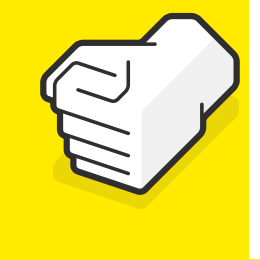
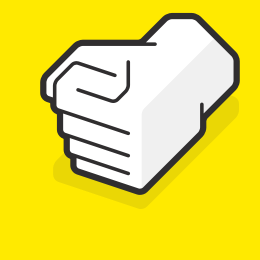
added images with hover effect

Changed region(s): [[0.9538, 0.0, 1.0, 1.0]]

diff --git a/index.html b/index.html
@@ -11,9 +11,18 @@
 <body>
     <h1 class="title">ROCK PAPER SCISSORS</h1>
     <div class="container">
-        <button id="rockbtn">Rock</button>
-        <button id="paperbtn">Paper</button>
-        <button id="scissorbtn">Scissor</button>
+        <div class="rock">
+            <img src="images/rock.png">
+            <button id="rockbtn">Rock</button>
+        </div>
+        <div class="paper">
+            <img src="images/paper.png">
+            <button id="paperbtn">Paper</button>
+        </div>
+        <div class="scissor">
+            <img src="images/scissor.png">
+            <button id="scissorbtn">Scissor</button>
+        </div>
     </div>
     <div class="result">
         Here is the result

diff --git a/style.css b/style.css
@@ -1,5 +1,5 @@
 body {
-    background-color: yellow;
+    background-color: rgb(255, 234, 0);
     font-family: 'Lato', sans-serif;
     text-align: center;
 
@@ -16,9 +16,27 @@ body {
     gap: 25px;
 }
 
+img {
+    transition: transform 250ms;
+}
+
+img:hover {
+    transform: translateY(-10px);
+}
+
+.rock,
+.paper,
+.scissor {
+    max-width: 260px;
+}
+
 .result,
 .score {
     font-size: 50px;
     font-weight: 600;
+}
+
+.result {
+    padding-top: 30px;
 }
 
